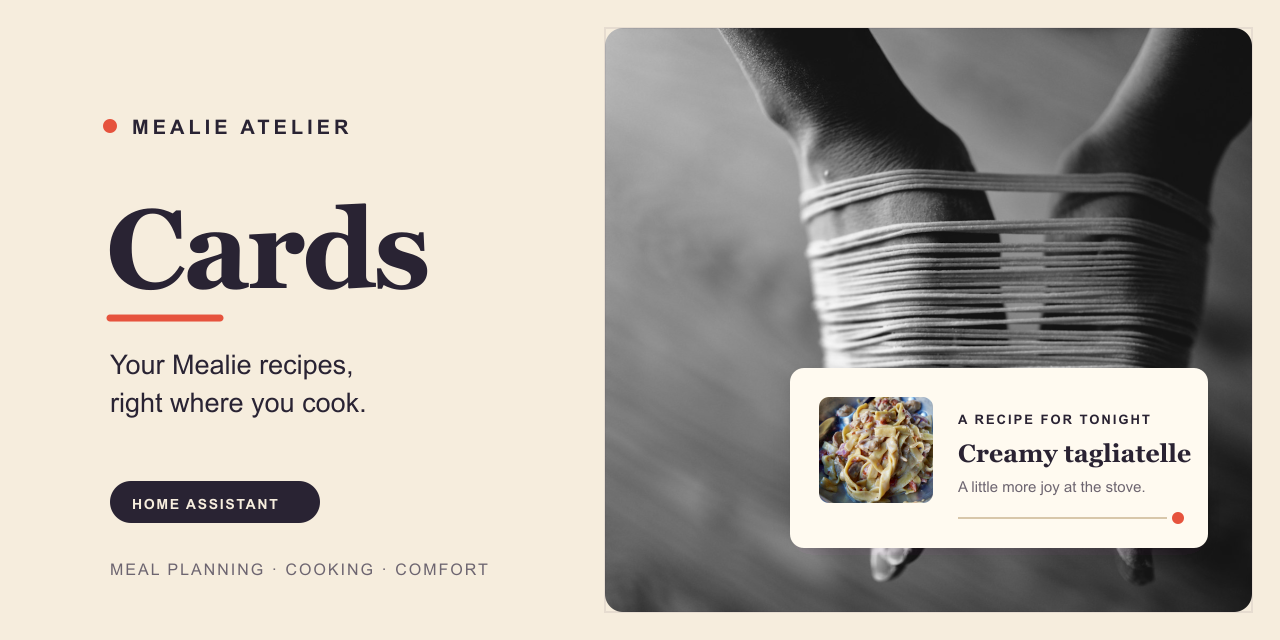
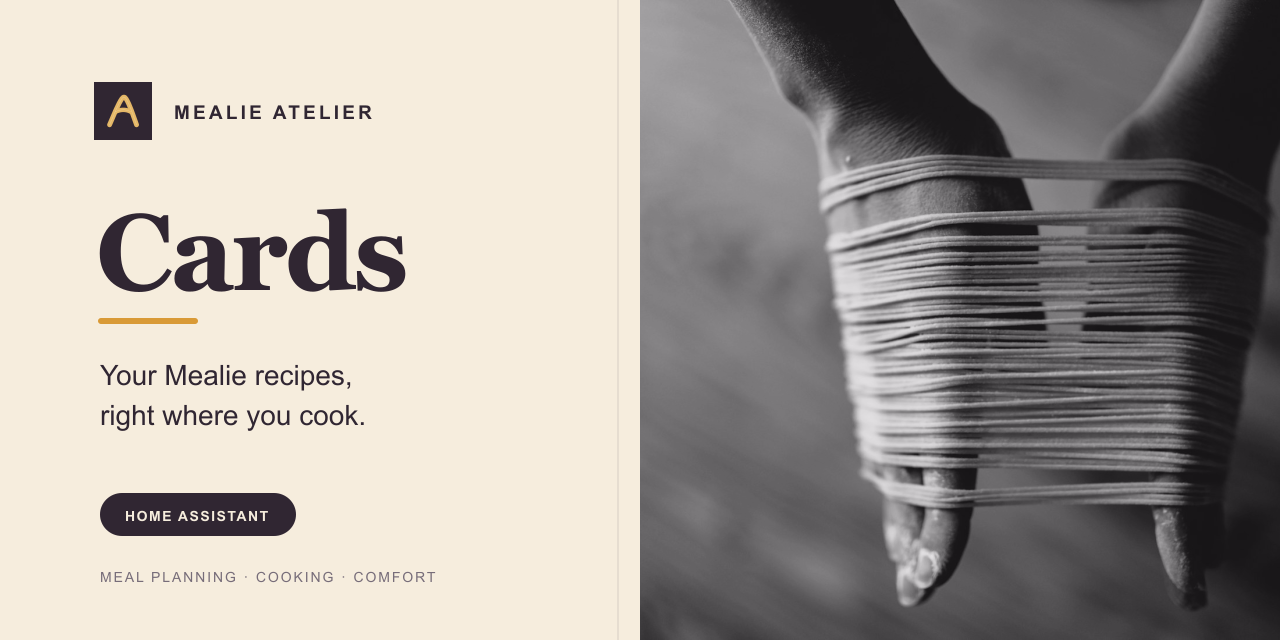
Refresh Mealie Atelier brand assets

diff --git a/brand/README.md b/brand/README.md
@@ -1,22 +1,31 @@
 # Brand assets
 
-This folder contains the current Mealie Atelier identity assets, prepared for GitHub profiles and future app distribution.
+Mealie Atelier uses a compact, hand-drawn pasta-ribbon mark: one tagliatelle ribbon forms the Atelier “A”. The flat mark is designed to stay legible in GitHub's circular avatar crop, PWA icons and small in-app placements. Its restrained palette pairs aubergine, warm pasta gold and cream; no generated food imagery is used in the identity mark.
 
 ## App icons
 
-- mealie-atelier.png is the 1024px master used for the organization avatar.
-- mealie-atelier.svg is the editable icon source.
-- The 192px, 512px, maskable 512px and Apple touch icon exports are ready for PWA and iOS manifests.
+- `mealie-atelier.svg` is the editable vector master.
+- `mealie-atelier.png` is the 1024 × 1024 organization-avatar master.
+- `mealie-atelier-icon-192.png` and `mealie-atelier-icon-512.png` are PWA exports.
+- `mealie-atelier-maskable-512.png` is a 512 × 512 maskable export with the mark kept within the safe area.
+- `mealie-atelier-apple-touch-icon.png` is the 180 × 180 Apple touch icon.
 
 ## Repository previews
 
-- mealie-atelier-cards-social-preview.png is the Cards repository preview.
-- mealie-atelier-bridge-social-preview.png is the Bridge repository preview.
-- The SVG files are editable source artwork. They reference the adjacent photographer images.
+- `mealie-atelier-cards-social-preview.png` and `mealie-atelier-bridge-social-preview.png` are 1280 × 640 GitHub previews.
+- The matching SVG files are editable source artwork. They use the same type hierarchy and palette as the icon.
+- The Cards preview uses a real pasta-making photograph credited in `CREDITS.md`.
 
-## Photography credits
+## Exporting
 
-- App icon and Cards recipe inset: Brett Wharton, [Unsplash photo](https://unsplash.com/photos/a-plate-of-pasta-with-meat-and-vegetables-K4oM_d4bBPY).
-- Cards preview hero: davide ragusa, [Unsplash photo](https://unsplash.com/photos/person-making-noodles-FwiLgvi-2Do).
+From this folder, regenerate all icon PNGs and social previews with `rsvg-convert`:
 
-The images are used under the Unsplash License. Photographer credits are included as a courtesy.
+```sh
+rsvg-convert -w 1024 -h 1024 mealie-atelier.svg > mealie-atelier.png
+rsvg-convert -w 512 -h 512 mealie-atelier.svg > mealie-atelier-icon-512.png
+rsvg-convert -w 192 -h 192 mealie-atelier.svg > mealie-atelier-icon-192.png
+rsvg-convert -w 512 -h 512 mealie-atelier.svg > mealie-atelier-maskable-512.png
+rsvg-convert -w 180 -h 180 mealie-atelier.svg > mealie-atelier-apple-touch-icon.png
+rsvg-convert -w 1280 -h 640 mealie-atelier-cards-social-preview.svg > mealie-atelier-cards-social-preview.png
+rsvg-convert -w 1280 -h 640 mealie-atelier-bridge-social-preview.svg > mealie-atelier-bridge-social-preview.png
+```

diff --git a/brand/CREDITS.md b/brand/CREDITS.md
@@ -2,14 +2,13 @@
 
 ## Photography
 
-- App icon and Cards recipe-card inset: Brett Wharton, [A plate of pasta with meat and vegetables](https://unsplash.com/photos/a-plate-of-pasta-with-meat-and-vegetables-K4oM_d4bBPY), Unsplash License.
-- Cards social preview hero: davide ragusa, [Person making noodles](https://unsplash.com/photos/person-making-noodles-FwiLgvi-2Do), Unsplash License.
+- Cards social preview: Davide Ragusa, [Person making noodles](https://unsplash.com/photos/person-making-noodles-FwiLgvi-2Do), Unsplash License.
 
-Attribution is not required by the Unsplash License; it is included here to credit the photographers.
+Attribution is not required by the Unsplash License; it is included here to credit the photographer. The app and organization icon is drawn as editable SVG artwork and does not use stock or generated photography.
 
 ## Export dimensions
 
-- `mealie-atelier.png`: 1024 × 1024 pixel master app and organization icon.
+- `mealie-atelier.png`: 1024 × 1024 pixel organization icon master.
 - `mealie-atelier-icon-192.png`: 192 × 192 pixel PWA icon.
 - `mealie-atelier-icon-512.png`: 512 × 512 pixel PWA icon.
 - `mealie-atelier-maskable-512.png`: 512 × 512 pixel maskable PWA icon.
